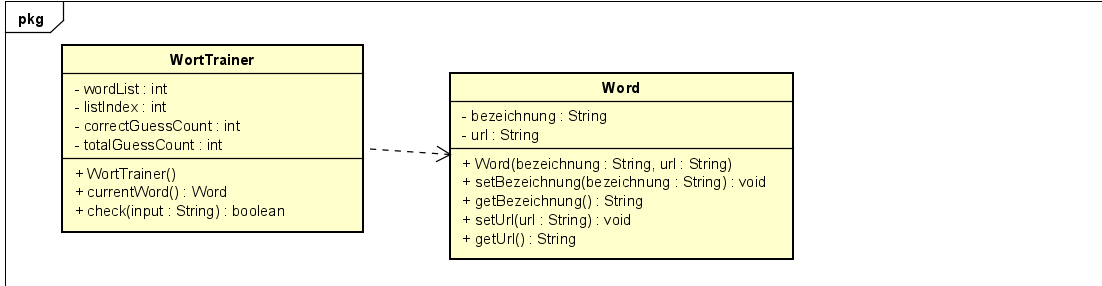
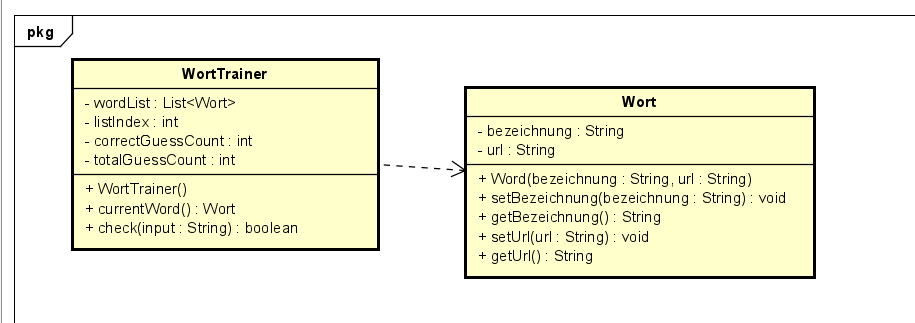
WortTrainerklasse erstellt

diff --git a/src/main/java/at/nredl/model/WortTrainer.java b/src/main/java/at/nredl/model/WortTrainer.java
@@ -1,4 +1,62 @@
 package at.nredl.model;
 
+import java.util.List;
+
 public class WortTrainer {
+
+    private List<Wort> wordList;
+    private int listIndex;
+    private int correctGuessCount;
+    private int totalGuessCount;
+
+    public WortTrainer() {
+
+    }
+
+    public void setWordList(List<Wort> wordList) {
+        if(wordList.isEmpty()) {
+            throw new IllegalArgumentException("Wortliste darf nicht leer sein.");
+        }
+        this.wordList = wordList;
+    }
+
+    public List<Wort> getWordList() {
+        return this.wordList;
+    }
+
+    public void setCorrectGuessCount(int correctGuessCount) {
+        if(correctGuessCount < 0) {
+            throw new IllegalArgumentException("CorrectGuessCount darf nicht niedriger als 0 sein.");
+        }
+        this.correctGuessCount = correctGuessCount;
+    }
+    public int getCorrectGuessCount() {
+        return this.correctGuessCount;
+    }
+
+    public void setTotalGuessCount(int totalGuessCount) {
+        if(totalGuessCount < 0) {
+            throw new IllegalArgumentException("TotalGuessCount darf nicht niedriger als 0 sein.");
+        }
+        this.totalGuessCount = totalGuessCount;
+    }
+
+    public int getTotalGuessCount() {
+        return this.totalGuessCount;
+    }
+
+    public Wort currentWord() {
+        return wordList.get(listIndex);
+    }
+
+    public boolean check(String input) {
+       totalGuessCount++;
+       boolean b = input.equalsIgnoreCase(currentWord().getWort());
+       if(b) {
+           correctGuessCount++;
+       }
+       return b;
+    }
+
+
 }
